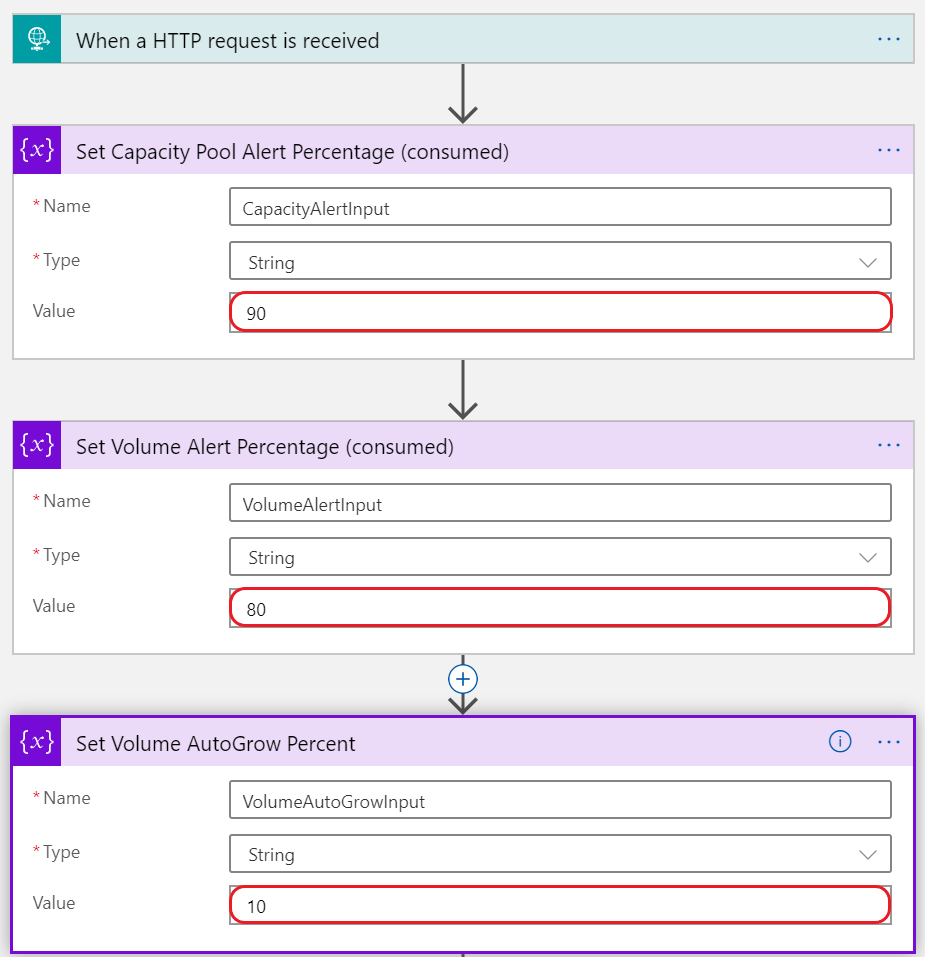
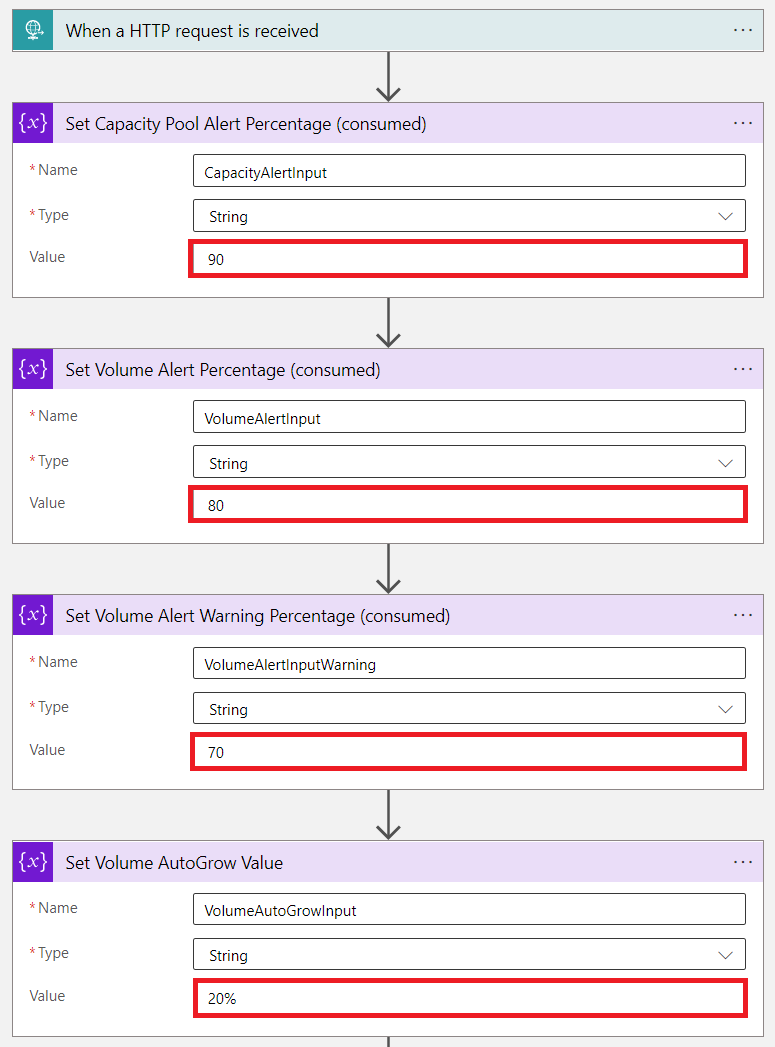
added readme for agent mode

diff --git a/README.md b/README.md
@@ -6,25 +6,31 @@
 
 **An Azure Logic App that manages capacity based alert rules and automatically increases volume sizes to prevent your Azure NetApp Files volumes from running out of space.**
 
+## **Disclaimer**
+
+**This logic app (ANFCapacityManager) is provided as is and is not supported by NetApp or Microsoft. You are encouraged to modify to fit your specific environment and/or requirements. It is strongly recommended to test the functionality before deploying to any business critical or production environments.**
+
 ## Change Log
 
-* Sept 20, 2021  - Fixed bug that required SMBFQDN field that doesn't always exist
-* Sept 20, 2021  - Fixed bug that incorrectly calculated the new volume size when using percent based autogrow 
-* July 27, 2021  - Increased v3.1 -> v4.0
-* July 27, 2021  - Added separate alert for Volume full warning only. Use this value to notify your team without automatically growing the volume.
-* July 26, 2021  - Auto Grow amount now accepts percent-based values (20%) or static values with 't' for 'g'. i.e. '500g' to grow by 500 GiB or '2t' to grow by 2 TiB.
-* April 16, 2021 - Added NetApp Account name to metric rule names to guarantee resource name uniqueness.
-* April 12, 2021 - Added logic to check if pool resize is complete before attempting to resize volume. Changed 'put' methods to 'patch' to avoid wiping out tags and snapshot policies.
-* March 14, 2021 - CRR Source Volumes; added logic to autogrow function to increase CRR target capacity pool if required. Logic App will need contributor access to target volume's resource group.
-* March 3, 2021  - Change volume metric from "Volume Consumed Size" to "Percentage Volume Consumed Size"
+* Nov 30, 2022 - Added support for ['Agent mode'](./linux/README.md). Agent mode measures volume utilization from the host and significantly reduces auto grow response time.
+* Nov 30, 2022 - Added support for volume specific thresholds via volume tags. See [Volume Tags](#volume-tags) below for more information.
+* Sep 20, 2021 - Fixed bug that required SMBFQDN field that doesn't always exist
+* Sep 20, 2021 - Fixed bug that incorrectly calculated the new volume size when using percent based autogrow 
+* Jul 27, 2021 - Increased v3.1 -> v4.0
+* Jul 27, 2021 - Added separate alert for Volume full warning only. Use this value to notify your team without automatically growing the volume.
+* Jul 26, 2021 - Auto Grow amount now accepts percent-based values (20%) or static values with 't' for 'g'. i.e. '500g' to grow by 500 GiB or '2t' to grow by 2 TiB.
+* Apr 16, 2021 - Added NetApp Account name to metric rule names to guarantee resource name uniqueness.
+* Apr 12, 2021 - Added logic to check if pool resize is complete before attempting to resize volume. Changed 'put' methods to 'patch' to avoid wiping out tags and snapshot policies.
+* Mar 14, 2021 - CRR Source Volumes; added logic to autogrow function to increase CRR target capacity pool if required. Logic App will need contributor access to target volume's resource group.
+* Mar 03, 2021 - Change volume metric from "Volume Consumed Size" to "Percentage Volume Consumed Size"
 
-## Alert Management
+## Alert Rule Management
 
 * When an Azure NetApp Files Capacity Pool or Volume is created, ANFCapacityManager creates 2 metric alert rules based on the specified percent consumed threshold separately for warning and autogrow. If you do not wish to have a warning email, you can set the threshold to '0'.
 * When an Azure NetApp Files Capacity Pool or Volume is resized, ANFCapacityManager modifies the metric alert rule based on the specified percent capacity consumed threshold. If the alert rule does not exist, it will be created.
 * When an Azure NetApp Files Capacity Pool or Volume is deleted, the corresponding metric alert rule will be deleted.
 
-## Capacity Management (New!)
+## Capacity Management
 
 * Optionally, when an Azure NetApp Files Volume reaches the specified percent consumed threshold, the volume quota (size) will be increased by the percent specified between 10-100%.
 * If increasing the volume size exceeds the capacity of the containing capacity pool, the capacity pool size will also be increased to accomodate the new volume size.
@@ -33,13 +39,28 @@
 
 ## Prerequisites and Permissions
 
-* The Logic App will need 'contributor' access to your ANF resrouce group (or subscription) and 'contributor' access to the resource group where it will be creating the alerts as well as the resource group it is deployed to.
+* The logic app's managed identity will need 'contributor' access to your ANF resrouce group (or subscription) and 'contributor' access to the resource group where it will be creating the alerts as well as the resource group it is deployed to.
+* You will need to have an alert action group already created prior to installing the logic app. This action group will be associated with all capacity based alerts that get created by the logic app. This action group is triggered when a capacity pool or volume has reached the specified full threshold. This alert action group should likely notify the appropriate people via email or SMS.
 
-* You will need to have an Alert Action group already created prior to installing the Logic App. This Action group will be associated with all capacity based alerts that get created by the Logic App. This action group is triggered when a Capacity Pool or Volume has reached the full threshold. This Alert Action group should probably notify the appropriate people via email or SMS.
+## Volume Tags
 
-## **Disclaimer**
+There are 4 volume tags that can be used to control the behavior of ANFCapacityManager:
 
-**This logic app (ANFCapacityManager) is provided as is and is not supported by NetApp or Microsoft. You are encouraged to modify to fit your specific environment and/or requirements. It is strongly recommended to test the functionality before deploying to any business critical or production environments.**
+* **anfcapacitymanager_threshold_grow**
+    - integer value representing a percentage (no '%' symbol)
+    - if set, will override the default value for that volume only, at what percent full should this volume trigger auto grow
+* **anfcapacitymanager_threshold_warn**
+    - integer value representing a percentage (no '%' symbol)
+    - if set, will override the default value for that volume only, at what percent full should this volume send a warning to the action group
+* **anfcapacitymanager_autogrow_value**
+    - this can be in any of the following formats: '20%', '100g', '1t'
+    - if set, will override the default auto grow ammount for that volume only, by how much should the volume auto grow
+    - if set to 0, volume auto grow is disabled for that volume only
+* **anfcapacitymanager_autogrow_maxgib**
+    - integer value represented GiBs, i.e. '500'
+    - if set, will limit the max volume size a volume can auto grow to
+    - if unset, the volume will grow up to the volume maximum size as allowed by the Azure NetApp Files service
+    - if set to 0, volume auto grow is disabled for that volume only
 
 ## Installation
 
@@ -49,21 +70,25 @@
 
 ## **IMPORTANT: Follow all installation steps completely!**  
 
-1. **Click the button above to deploy this Logic App to Azure.** Complete the following fields:
+1. Create an [action group](https://learn.microsoft.com/azure/azure-monitor/alerts/action-groups?ocid=AID754288&wt.mc_id=CFID0448) that will be used to alert you or your team when a volume or capacity pool has reached the target threshold. You may skip this step if you arelady have action group that you would like to use.
 
+2. **Click the button above to deploy the ANFCapacityManager logic app** Complete the following fields:
+   * **Subscription** - this is the subscription where the logic will be deployed
    * **Resource group** - this is where the Logic App will be deployed.
-   * **Location** - this is the region where your Logic App will be deployed.
+   * **Region** - this is the region where the logic app will be deployed, leave as default to use same region as the resource group selected
    * **Logic App Name** - any name you would like, the default is recommended.
+   * **Location** - this is the region where the logic app will be deployed, leave as default to use same region as the resource group selected
    * **Target Resource Group for Alerts** - new alerts will be created in this resource group.
    * **Target Resource Group to Monitor** - leave this field blank to monitor your entire subscription.
-   * **Capacity Pool % Full Threshold** - This determines the consumed threshold that triggers an alert for capacity pools. A value of 90 would cause an alert to be triggered when the capacity pool reaches 90% consumed.
-   * **Volume Percent Grow Threshold** - This determines the consumed threshold that triggers an alert for volumes and triggers auto grow. A value of 80 would cause an alert to be triggered when the volume reaches 80% consumed.
+   * **Capacity Pool Percent Full Threshold** - This determines the consumed threshold that triggers an alert for capacity pools. A value of 90 would cause an alert to be triggered when the capacity pool reaches 90% consumed.
+   * **Volume Percent Grow Threshold** - This determines the consumed threshold that triggers an alert for volumes and triggers auto grow. A value of 80 would cause an alert to be triggered and the auto grow function to be triggered when the volume reaches 80% consumed.
    * **Volume Percent Warn Threshold** - This determines the consumed threshold that triggers an alert for volumes. A value of 70 would cause an alert to be triggered when the volume reaches 70% consumed.
-   * **Existing Action Group's Resource Group** - this is the resource group that contains your **_existing_** Action Group.
+   * **Existing Action Group Resource Group** - this is the resource group that contains your **_existing_** Action Group.
    * **Existing Action Group for Capacity Notifications** - this is the action group that will be triggered for capacity based alerting. This should be pre-created by you. This action group could send email/sms, or anything else you would like.
-   * **Auto Grow Amount** - Percent of the existing volume size or GiB (g) or TiB (t) to automatically grow a volume if it reaches the % Full Threshold specified above. A value of 0 (zero) will disable the AutoGrow feature. To specify 
+   * **Auto Grow Amount** - Percent of the existing volume size or GiB (g) or TiB (t) to automatically grow a volume if it reaches the % Full Threshold specified above. A value of 0 (zero) will disable the AutoGrow feature.
+   * **Agent Mode** - leave set to '@false' unless using [ANFCapacityManager Agent](/linux/README.md)
 
-2. **Give your new Logic App permissions to read, create, and modify resources within your environment:** Navigate to Resource groups, choose the resource group that you specified for 'Target Resource Group for Alerts'. Choose 'Access control (IAM)' from the menu. Click the '+ Add' button and choose 'Add role assignment'. For the 'Role', choose Contributor. For 'Assign access to', choose Logic App, now select 'ANFCapacityManager' (or the name you specified in step 1). Finally, click the 'Save' button. **Repeat as needed to give the Logic App the required access:**
+3. **Give the logic app's managed identity permissions to read, create, and modify resources within your environment:** Navigate to Resource groups, choose the resource group that you specified for 'Target Resource Group for Alerts'. Choose 'Access control (IAM)' from the menu. Click the '+ Add' button and choose 'Add role assignment'. For the 'Role', choose Contributor. For 'Assign access to', choose Logic App, now select 'ANFCapacityManager' (or the name you specified in step 1). Finally, click the 'Save' button. **Repeat as needed to give the logic app the required access:**
    * **Resource Group containing ANFCapacityManager**: 'Contributor'
    * **Resource Group where Alert Rules will be created**: 'Contributor'
    * **Subscription (or Resource Group) being monitored**: 'Contributor'
@@ -71,30 +96,31 @@
    ![Add Role to RG](./img/addrole.png)
    <img src="./img/chooselogicapp.png" alt="" height="350" style="margin: 0 0 0 0; " />
 
-3. **IMPORTANT: Run the Logic App manually to build the supporting resources:** Navigate to your Logic App and choose Run Trigger, Manual. Running the Logic App manually kicks off a special workflow that does the following:
+4. **IMPORTANT: Run the logic app manually to build the supporting resources:** Navigate to your Logic App and choose Run Trigger, Manual. Running the Logic App manually kicks off a special workflow that does the following:
    * Creates an Action Group called '**ANF_LogicAppTrigger**\[_*monitor_rg]*', this action group is called when any of the four below alerts are triggered. The action group calls the logic app when a new volume or capacity pool is created, modified, or deleted.
    * Creates an Activity Log Alert rule called '**ANF_VolumeModified**\[_*monitor_rg]*' to trigger the Logic App whenever a volume is created or modified.
    * Creates an Activity Log Alert called '**ANF_PoolModified**\[_*monitor_rg]*' to trigger the Logic App whenever a capacity pool is created or modified.
    * Creates an Activity Log Alert called '**ANF_VolumeDeleted**\[_*monitor_rg]*' to trigger the Logic App whenever a volume is deleted.
    * Creates an Activity Log Alert called '**ANF_PoolDeleted**\[_*monitor_rg]*' to trigger the Logic App whenever a pool is deleted.
-   * **NEW! Creates capacity based Metric Alert rules for existing volumes and capacity pools.**
+   * Creates capacity based metric alert rules for existing volumes and capacity pools.
   
-Once ANFCapacityManager is installed successfully you should experience the following behavior: When an Azure NetApp Files Capacity Pool or Volume is created, modified, or deleted, the Logic App will automatically create (or modify, or delete) a capacity based Metric Alert rule with the name '**ANF\_Pool\_*accountname*\_*poolname***' or '**ANF\_Vol\_*accountname*\_*poolname*\_*volname***'. In addition, if you provided a value greater than 0 (zero) for the '**AutoGrow Percent Increase**' field, the Logic App will automatically increase the volume capacity by the percent specified if a volume reaches the consumed threshold.'
+Once ANFCapacityManager is installed successfully you should experience the following behavior: When an Azure NetApp Files Capacity Pool or Volume is created, modified, or deleted, the logic app will automatically create (or modify, or delete) a capacity based Metric Alert rule with the name '**ANF\_Pool\_*accountname*\_*poolname***' or '**ANF\_Vol\_*accountname*\_*poolname*\_*volname***'. In addition, if you provided a value greater than 0 (zero) for the '**Auto Grow Amount**' field, the logic app will automatically increase the volume capacity by the percent specified if a volume reaches the consumed threshold.'
 
 ## Modifying Alert Thresholds and AutoGrow Amount
 
-You can modify the ANFCapacityManager capacity thresholds and AutoGrow percent as needed after deployment: Navigate back to Logic Apps, choose your Logic App, and select 'Logic app designer' from the left hand menu.
+You can modify the ANFCapacityManager capacity thresholds and auto grow values as needed after deployment: Navigate back to the logic app, and select 'Logic app designer' from the left hand menu.
 
-Modify the three variables as required:
+Modify the 4 variables as required:
 
-* Set Capacity Pool Alert Percentage (consumed)
-* Set Volume Alert Percentage (consumed)
-* Set Volume AutoGrow Percent
+* **Set Capacity Pool Alert Percentage (consumed)** - this determines when capacity pool alerts are sent
+* **Set Volume Alert Percentage (consumed)** - this determines when volume auto grow events are triggered
+* **Set Volume Alert Warning Percentage (consumed)** - this determines when volume alerts are sent
+* **Set Volume AutoGrow Value** - this determines by how much volumes are grown; 20%, 2g, 1t as examples
 
-**Trigger a manual run of the Logic App.** This will modify all of the existing Metric alert rules based on the new value specified.
+**Trigger a manual run of the Logic App.** This will modify all of the existing metric alert rules based on the new values specified.
 
 <img src="./img/modifythresholds.png" alt="" height="600" style="margin: 0 0 0 0; " />
 
 Please reach out if you have any questions or feature requests.
 
-I'd love to hear what you think of this Logic App. Say hello on [Twitter](https://twitter.com/seanluce).
+I'd love to hear what you think of this logic app. Say hello on [Twitter](https://twitter.com/seanluce).

diff --git a/linux/README.md b/linux/README.md
@@ -1,0 +1,102 @@
+# ANFCapacityManager Agent
+
+**ANFCapacityManager Agent** is a PowerShell script that measures volume utilization from a linux host and triggers the ANFCapacityManager logic app to perform volume auto grow events. Measuring volume utilization from the linux host greatly reduces the response time of ANFCapacityManager auto grow events.
+
+Without **ANFCapacityManager Agent**, ANFCapacityManager relies on Azure monitor metrics to trigger auto grow events. Azure monitor metrics are commonly 10-15 minutes behind the actual value measured from the hosts. Because of this delay, the speed at which data is being written to the Azure NetApp Files volume combined with limited free space may result in the volume becoming full before ANFCapacityManager is able to be triggered.
+
+**ANFCapacityManager Agent** eliminates the dependency on Azure monitor metrics.
+
+## How does it work?
+
+The ANFCapacityManager Agent script collects volume utilization via the 'df' command for all network file systems (NFS) connected to the host. When it detects a volume's utilization is above the specified threshold it uses 'Get-AzResource' and 'Get-AzNetAppFilesVolume' to determine which Azure NetApp Files volume is mounted and then calls the ANFCapacityManager logic app to automatically grow the volume by the specified amount. 
+
+## Why PowerShell?
+
+PowerShell on Linux works great and it makes interacting with Azure very simple. Using PowerShell allows me to use the same language for agents on both Linux and Windows.
+
+If PowerShell is not a good fit for your environment or use case, please feel free to write an agent in your language of choice and submit a PR to get it added to the repo.
+
+## Installation
+
+### 1. Deploy the ANFCapacityManager logic app
+
+#### Permissions
+
+The ANFCapacityManager logic app's managed identity will need write permissions on your Azure NetApp Files volumes. This is required for volume auto grow to function. You can give the logic app's managed identity the 'contributor' role or create a custom role.
+
+#### Steps to deploy the ANFCapacityManager logic app
+
+[![Deploy to Azure](https://aka.ms/deploytoazurebutton)](https://portal.azure.com/#create/Microsoft.Template/uri/https%3A%2F%2Fraw.githubusercontent.com%2FANFTechTeam%2FANFCapacityManager%2Fmaster%2Fanfcapacitymanager.json)
+
+1. Click the button above to deploy the ANFCapacityManager logic app, the following fields will be presented to you:
+    * **Subscription** - this is the subscription where the logic will be deployed
+    * **Resource group** - this is the resource group where the logic app will be deployed
+    * **Region** - this is the region of the resource group selected
+    * **Logic App Name** - any name you would like, it is recommended to add the suffix '_AgentMode'.
+    * **Location** - this is the region where the logic app will be deployed, leave as default to use same region as the resource group selected
+    * **Target Resource Group for Alerts** - leave this field blank
+    * **Target Resource Group to Monitor** - leave this field blank
+    * **Capacity Pool Percent Full Threshold** - leave this field blank
+    * **Volume Percent Grow Threshold** - leave this field blank
+    * **Volume Percent Warn Threshold** - leave this field blank
+    * **Existing Action Group Resource Group** - leave this field blank
+    * **Existing Action Group for Capacity Notifications** - leave this field blank
+    * **Auto Grow Amount** - Percent (%) of the existing volume size or GiB (g) or TiB (t) to automatically grow a volume if it reaches the % Full Threshold specified above. A value of 0 (zero) will disable the auto grow functionality.
+    * **Agent Mode** - Set to '@true'
+
+2. Retrieve the logic app's webhook URI by navigating to the logic app and clicking 'Logic app designer', click on the first box to expand it, and finally click on the copy to clipboard icon.
+
+<img src="./img/webhookuri.png" alt="" height="300" style="margin: 0 0 0 0; " />
+
+### 2. Deploy the ANFCapacityManager Agent script
+
+#### Permissions
+
+The ANFCapacityManager Agent script requires read access to your Azure subscription. By default, the script will attempt to use the host's managed identity to authenticate. For this to work, enable the virtual machine's managed identiy and give it read access to your Azure subscription. Alternatively, you can use service principal credentials to authenticate. Using the virtual machines's managed identity is the preferred method.
+
+#### Steps to deploy the ANFCapacityManager Agent script
+
+**From a Linux host where Azure NetApp Files volumes are mounted**
+1. [Install PowerShell v7.2.x](https://learn.microsoft.com/powershell/scripting/install/installing-powershell-on-linux?view=powershell-7.2)
+    1. PowerShell v7.3 has not been tested and may not work correctly
+1. Start PowerShell `sudo pwsh`
+1. [Install the Azure Az PowerShell module](https://learn.microsoft.com/powershell/azure/install-az-ps)
+1. [Install the Az.NetAppFiles PowerShell module](https://www.powershellgallery.com/packages/Az.NetAppFiles)
+1. Return to regular shell `exit`
+1. Change directory to /usr/bin `cd /usr/bin`
+1. Git clone this repo `git clone https://github.com/ANFTechTeam/ANFCapacityManager.git`
+1. Change directory to /usr/bin/ANFCapacityManager/linux `cd /usr/bin/ANFCapacityManager/linux`
+1. Copy the sample config file to config.ps1 `cp config.ps1.sample config.ps1`
+1. Modify the config file using vi or your favorite text editor `vi config.ps1`
+1. Make sure to paste in your logic app's webhook URI
+1. Scheduled the script to run via [cron](https://help.ubuntu.com/community/CronHowto)
+    1. `crontab -e` to edit the crontab file
+    2. `* * * * * pwsh /usr/bin/ANFCapacityManager/linux/ANFCapacityManager.ps1` 
+    1. These settings trigger the script to run every minute, adjust the schedule as needed.
+    1. `crontab -l` to view/confirm the crontab file
+
+If things are working correctly, you should see new lines in the /var/logs/ANFCapacityManager.log file.
+
+You can run the agent manually to verify it is working correctly: `sudo pwsh /usr/bin/ANFCapacityManager/linux/ANFCapacityManager.ps1`
+
+## Email Notifications
+
+The ANFCapacityManager Agent will send Email notifications for the following events:
+- Volume Autogrow Trigger, sent when a volume has reached the specified full threshold and the ANFCapacityManager logic app has been called
+- Volume Max Size Reached, sent when a volume has reached the specified full threshold and has already reached the maximum size specified
+
+## Logs
+
+Logs are written to '/var/logs/ANFCapacityManager.log' by default. The ANFCapacityManager Agent script logs volume utilization, when the ANFCapacityManager logic app is triggered, and when a volume has reached the maximum auto grow threshold.
+
+### Log Retention
+
+By default, each log file can grow up to 10MB. When the log file reaches 10MB, it is renamed to 'ANFCapacityManager.log.1'. If 'ANFCapacityManager.log.1' exists, it is first renamed to 'ANFCapacityManager.log.2', and so on. By default, 5 log files are retained:
+
+- ANFCapacityManager.log
+- ANFCapacityManager.log.1
+- ANFCapacityManager.log.2
+- ANFCapacityManager.log.3
+- ANFCapacityManager.log.4
+
+The log file size and number of log files retained can be modified via the config (config.ps1) file. 
